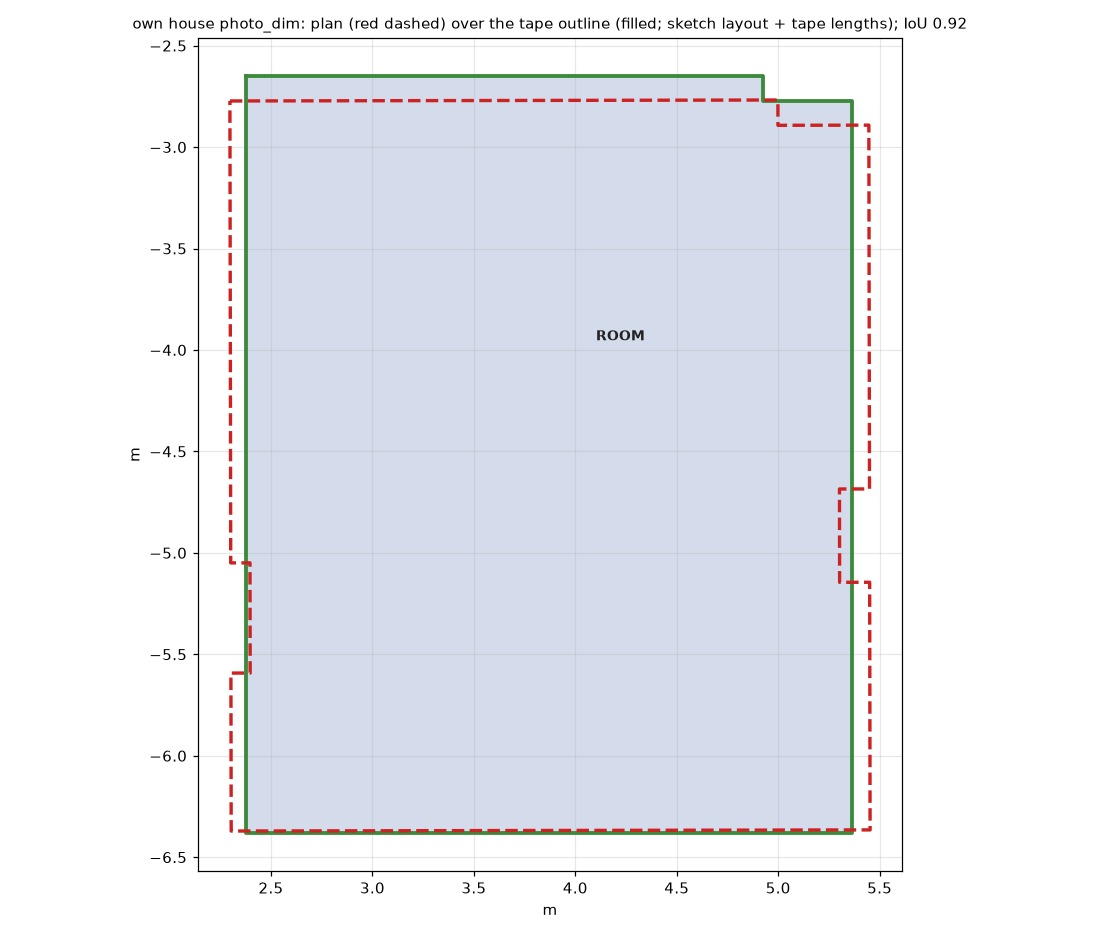
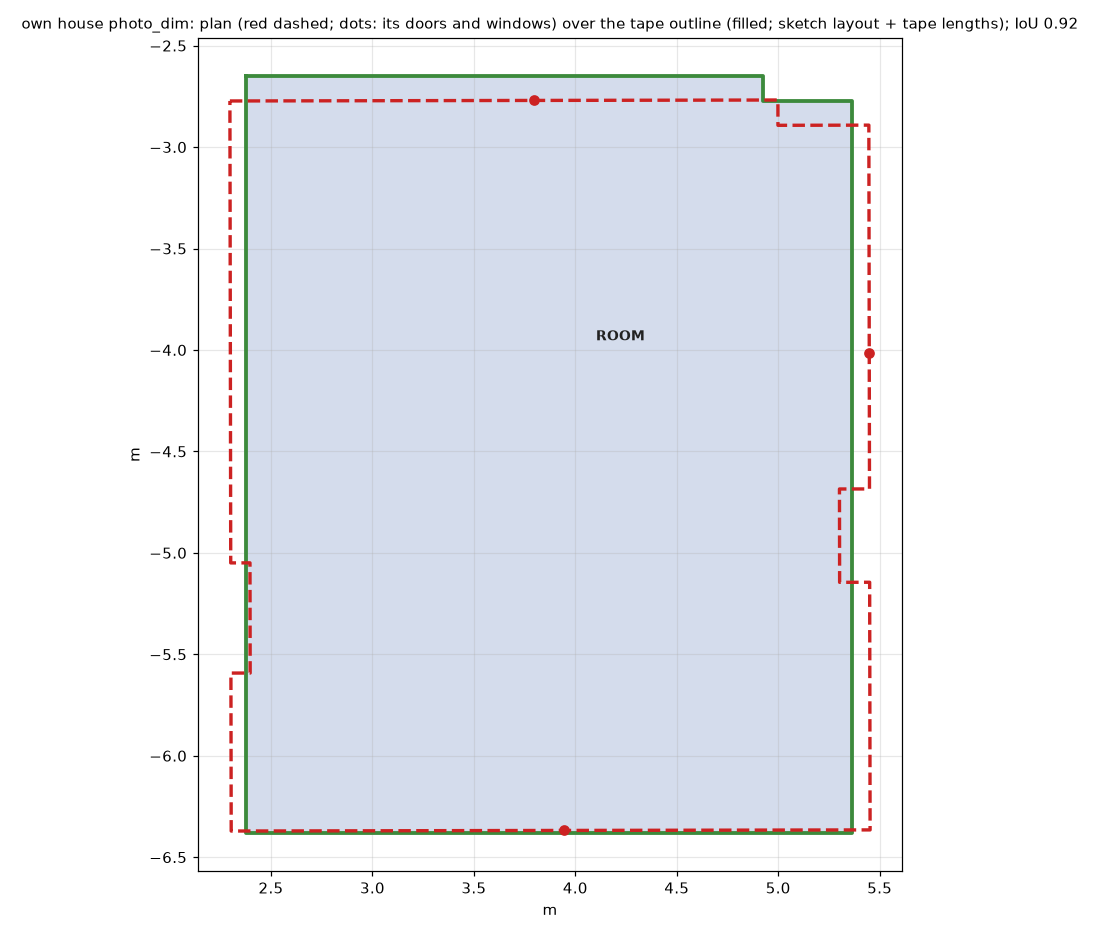
results: own lit overlay drawn the right way round
the lit outline fits the tape equally well turned 180 deg (iou 0.879 both ways) and the overlay kept the wrong turn.
it now keeps the turn whose door and window land on the tape's door and window walls, as the scorer already did, so
the lit numbers do not change. door and window dots are drawn on the overlays.

Changed region(s): [[0.0309, 0.0, 0.9891, 0.031]]

diff --git a/scripts/bench_results.py b/scripts/bench_results.py
@@ -397,6 +397,66 @@ def write_tables(summ: dict, path: Path) -> None:
 
 
 # ------------------------------------------------------------------------------------------------ main
+def orient_by_openings(plan: dict, geom: dict, pm: dict, tie_iou: float = 0.02) -> dict:
+    """A near-rectangular room fits its tape outline almost as well turned 180 deg (own lit: 0.878 both ways), so
+    the IoU fit can come out upside down. Between the fit and the fit turned 180 deg about the plan's centre, keep
+    the one whose doors and windows land on tape walls holding that kind of opening; the IoU must stay within
+    tie_iou. The scorer (wall_match) breaks the same tie with the door walls."""
+    import eval_door_stitch as EDS
+    wm = EDS.wm
+    glob = pm.get("glob")
+    if not glob:
+        return pm
+    M = np.diag([1.0, -1.0]) if pm.get("mirror") else np.eye(2)
+    R, t = np.asarray(glob["R"], float), np.asarray(glob["t"], float)
+    polys = [np.asarray(r["polygon"], float) @ M.T for r in plan["rooms"] if len(r.get("polygon") or []) >= 3]
+    if not polys:
+        return pm
+    walls = [(name, w["a"], w["b"], room) for room, g in geom.items() for name, w in g["walls"].items()]
+    held = {(room, o["wall"], o["kind"]) for room, g in geom.items() for o in g["openings"]}
+
+    def seg_d(q, a, b):
+        ab = b - a
+        s = np.clip(np.dot(q - a, ab) / max(np.dot(ab, ab), 1e-12), 0, 1)
+        return float(np.linalg.norm(q - (a + s * ab)))
+
+    def score(R_, t_):
+        agree = 0
+        for o in plan.get("openings", []):
+            ctr = o.get("position") or o.get("center")
+            if ctr is None or o.get("kind") not in ("door", "window"):
+                continue
+            q = np.asarray(ctr, float) @ M.T @ R_.T + t_
+            name, a, b, room = min(walls, key=lambda w: seg_d(q, w[1], w[2]))
+            agree += (room, name, o["kind"]) in held
+        P = [p @ R_.T + t_ for p in polys]
+        iou = np.mean([max(wm.iou(p, np.asarray(g["poly"], float)) for g in geom.values()) for p in P])
+        return agree, float(iou)
+
+    a0, i0 = score(R, t)
+    R1 = -R                                     # turned 180 deg; its shift fitted again: centres matched, then the
+    from shapely.geometry import Polygon      # best IoU on a 2 cm grid, +-0.6 m around the matched area centres
+    gc = np.mean([Polygon(np.asarray(g["poly"], float)).centroid.coords[0] for g in geom.values()], axis=0)
+    t1 = gc - np.mean([Polygon(P @ R1.T).centroid.coords[0] for P in polys], axis=0)
+    best = score(R1, t1)[1], t1
+    for dx in np.arange(-0.6, 0.601, 0.02):
+        for dy in np.arange(-0.6, 0.601, 0.02):
+            tt = t1 + np.array([dx, dy])
+            P = [q @ R1.T + tt for q in polys]
+            i = np.mean([max(wm.iou(q, np.asarray(g["poly"], float)) for g in geom.values()) for q in P])
+            if i > best[0]:
+                best = i, tt
+    t1 = best[1]
+    a1, i1 = score(R1, t1)
+    out = dict(pm)
+    out["orientation"] = dict(agree_fit=a0, agree_turned=a1, iou_fit=round(i0, 3), iou_turned=round(i1, 3), turned=False)
+    if a1 > a0 and i1 >= i0 - tie_iou:
+        out["glob"] = dict(glob, R=R1, t=t1)
+        out["iou"] = round(i1, 3)
+        out["orientation"]["turned"] = True
+    return out
+
+
 def main() -> None:
     ap = argparse.ArgumentParser(description=__doc__, formatter_class=argparse.RawDescriptionHelpFormatter)
     ap.add_argument("fresh", type=Path, help="outputs/benchmark/fresh_<HHMM>")
@@ -495,9 +555,9 @@ def main() -> None:
                 plan = json.loads(p.read_text())
                 geom = {g: v for g, v in own_geom.items() if g in (oh.get(lab, {}).get("openings", {})
                                                                    .get("gt_rooms_in_plan") or own_geom)}
-                pm = EDS.plan_metrics(plan, geom)
+                pm = orient_by_openings(plan, geom, EDS.plan_metrics(plan, geom))
                 png = S / "own" / f"{lab}_vs_tape.png"
-                EDS.overlay(plan, geom, pm, f"own house {lab}: plan (red dashed) over the tape outline "
+                EDS.overlay(plan, geom, pm, f"own house {lab}: plan (red dashed; dots: its doors and windows) over the tape outline "
                             f"(filled; sketch layout + tape lengths); IoU {pm['iou']}", png)
                 images[f"own_{lab}"]["overlay_vs_tape"] = save_png(png, R / "overlays" / f"own_{lab}_vs_tape.png")
                 oh[lab]["plan_iou_vs_tape_outline"] = pm["iou"]

diff --git a/scripts/eval_door_stitch.py b/scripts/eval_door_stitch.py
@@ -187,9 +187,10 @@ def overlay(plan: dict, gt_geom: dict, pm: dict, title: str, out: Path) -> None:
         P = np.asarray(r["polygon"], float) @ M.T @ glob["R"].T + glob["t"]
         ax.plot(*np.vstack([P, P[:1]]).T, color="#cc2222", lw=2.2, ls="--", zorder=4)
     for o in plan.get("openings", []):
-        if glob is None or o.get("position") is None:
+        ctr = o.get("position") or o.get("center")
+        if glob is None or ctr is None:
             continue
-        q = np.asarray(o["position"], float) @ M.T @ glob["R"].T + glob["t"]
+        q = np.asarray(ctr, float) @ M.T @ glob["R"].T + glob["t"]
         ax.plot(q[0], q[1], "o", color="#cc2222", ms=6, zorder=6)
     ax.set_aspect("equal")
     ax.grid(alpha=0.3)
